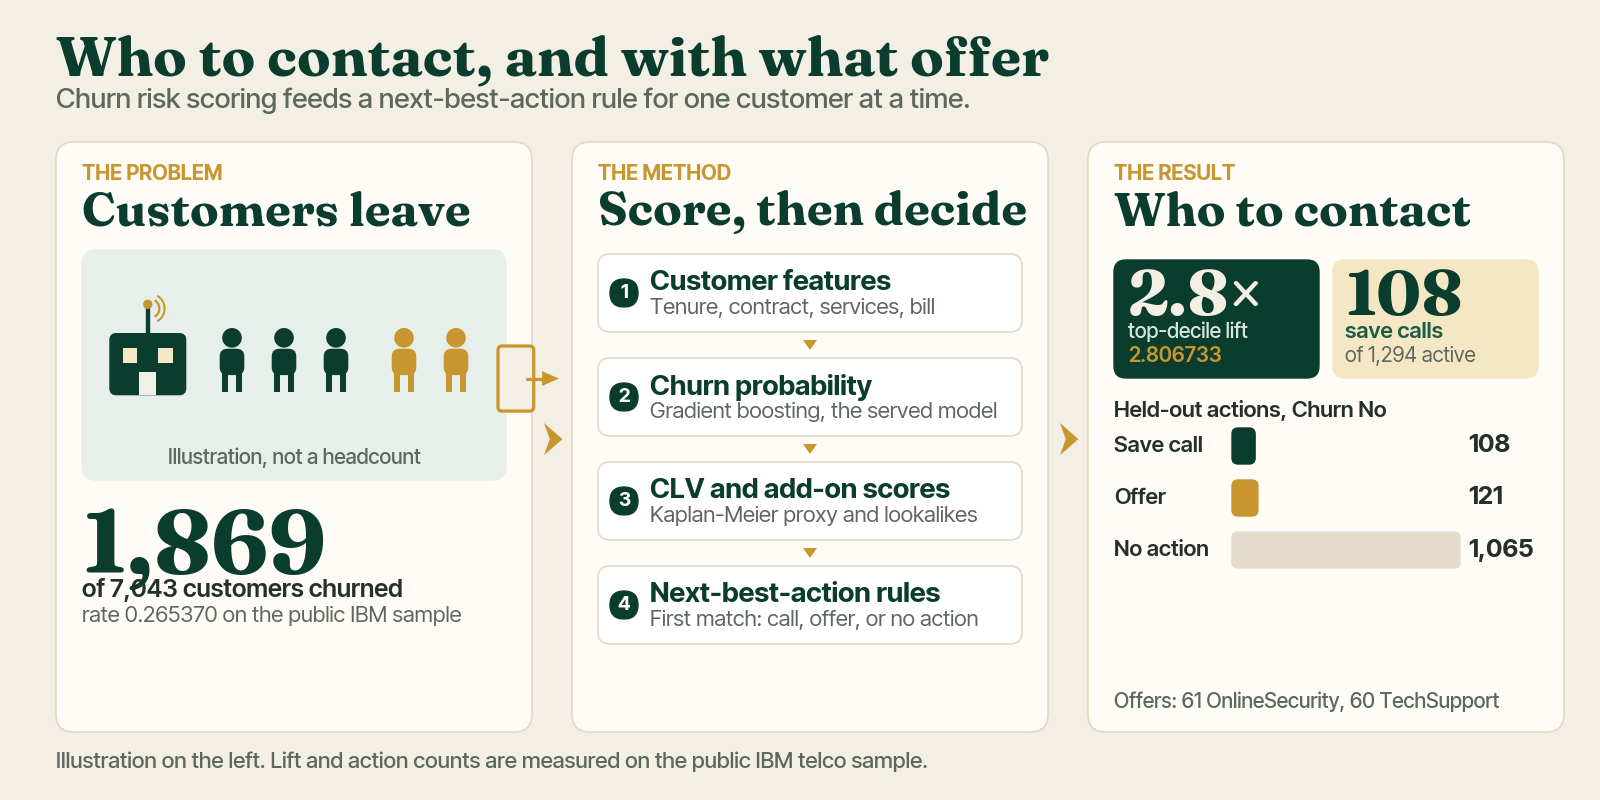
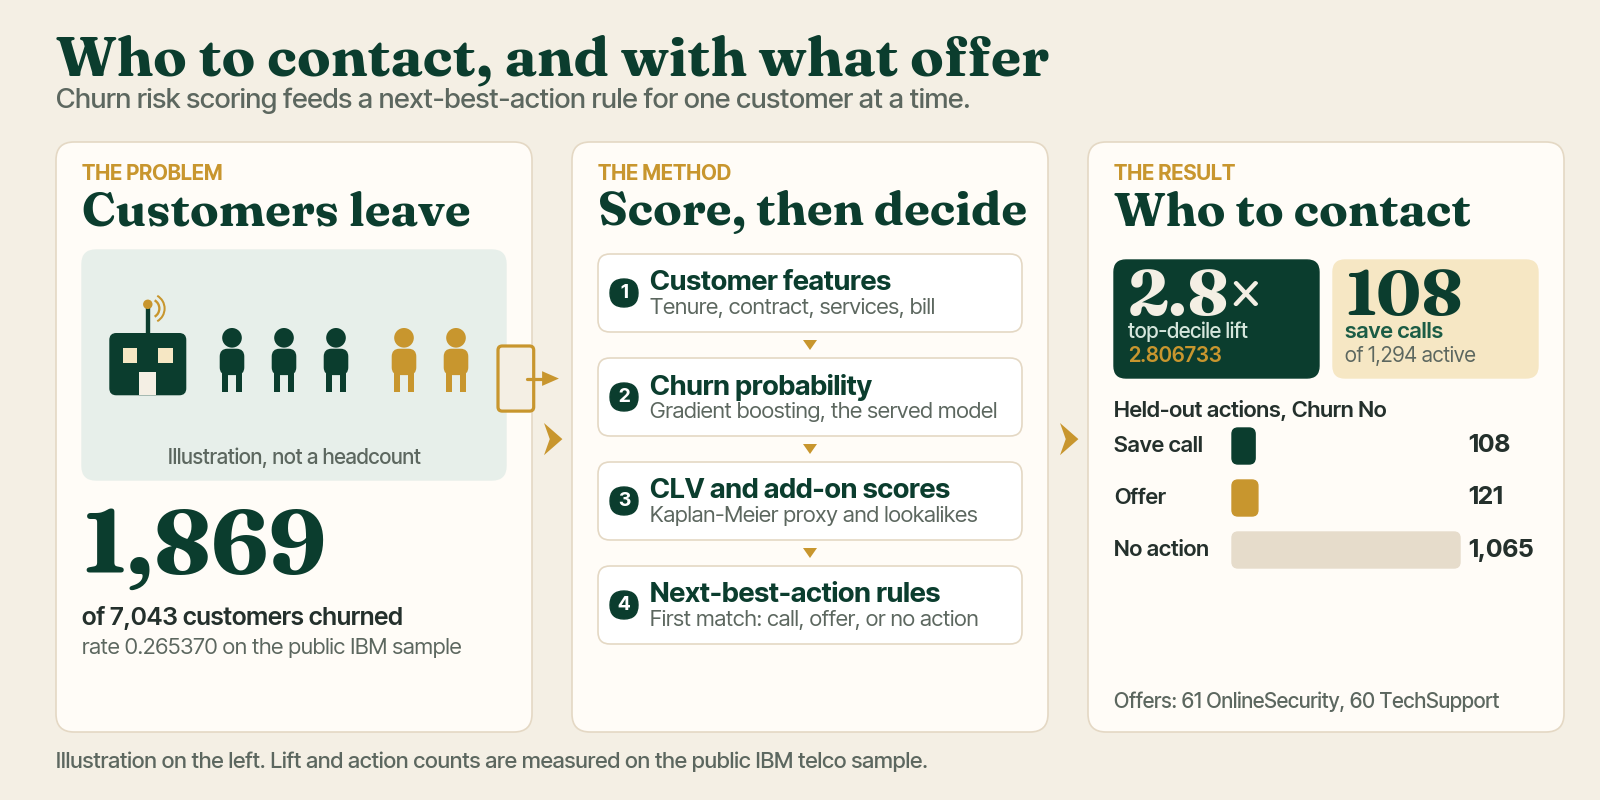
Separate the churn count from the line under it.

Changed region(s): [[0.0312, 0.7188, 0.2812, 0.8438]]

diff --git a/scripts/plot_story.py b/scripts/plot_story.py
@@ -366,7 +366,7 @@ def draw_problem(ax, fonts, x, y, w, h, facts, compact=False):
     text(
         ax,
         x + pad,
-        stat_y + (46 if compact else 72),
+        stat_y + (66 if compact else 100),
         f"of {commas(facts['n_rows'])} customers churned",
         fonts,
         "inter-600",
@@ -376,7 +376,7 @@ def draw_problem(ax, fonts, x, y, w, h, facts, compact=False):
     text(
         ax,
         x + pad,
-        stat_y + (66 if compact else 100),
+        stat_y + (96 if compact else 132),
         f"rate {facts['rate']:.6f} on the public IBM sample",
         fonts,
         "inter-400",
